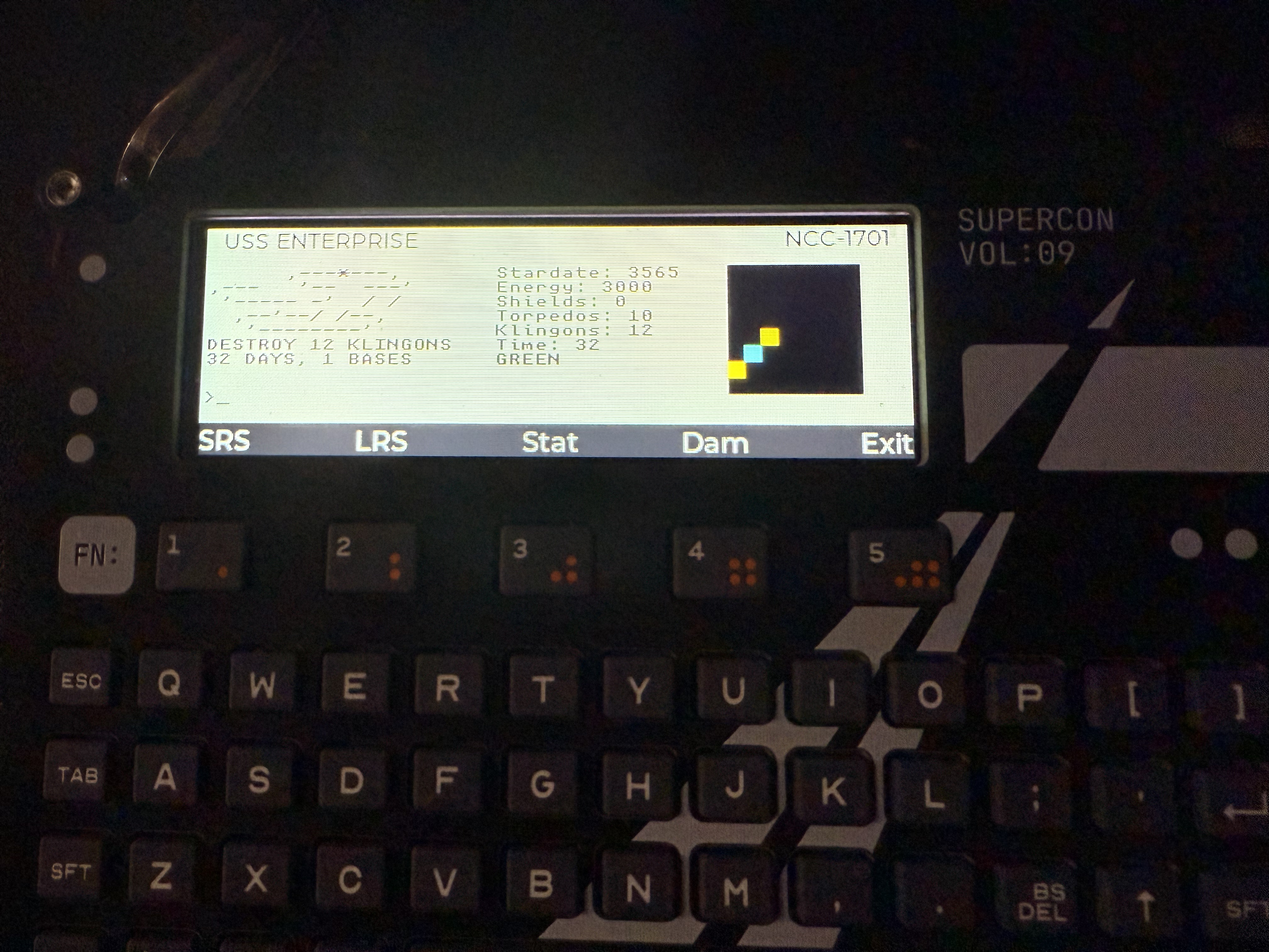
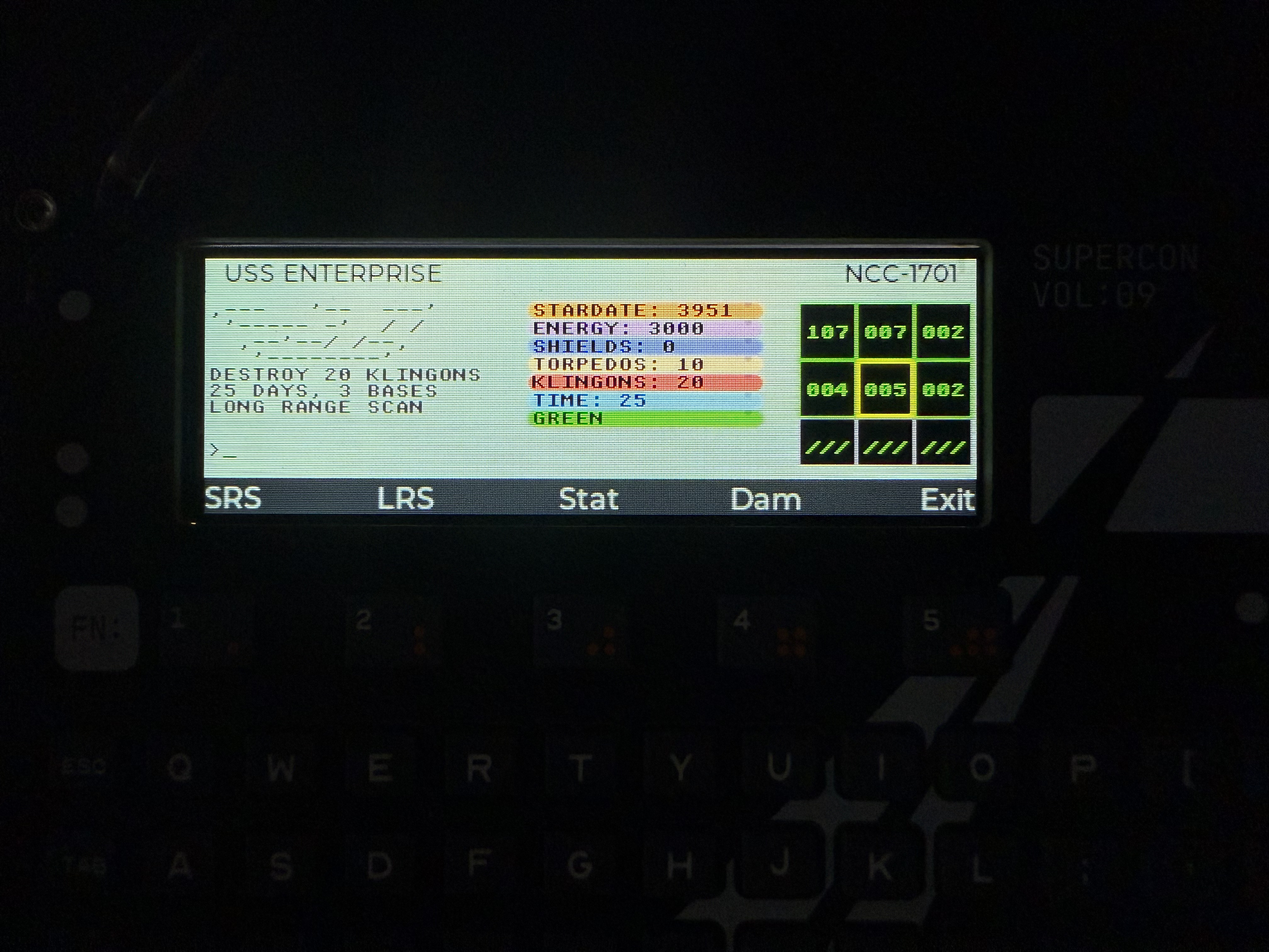
Show status in LCARS-like pills.

diff --git a/firmware/badge/apps/userA.py b/firmware/badge/apps/userA.py
@@ -514,7 +514,7 @@ class App(BaseApp):
         self.srs_grid = []  # 8x8 grid of small rectangles for SRS
         self.lrs_grid = []  # 3x3 grid for LRS display
         self.grid_mode = "SRS"  # "SRS" or "LRS"
-        self.status_label = None
+        self.status_pills = []  # LCARS-style status display pills
         self.log_label = None
         self.command_label = None
         
@@ -707,7 +707,7 @@ class App(BaseApp):
         
         # Show SRS grid - move to visible position
         cell_size = 10
-        start_x = 320
+        start_x = 330  # Shifted 10px right
         start_y = 2
         for idx, cell in enumerate(self.srs_grid):
             y = idx // 8
@@ -731,7 +731,7 @@ class App(BaseApp):
         
         # Show LRS grid - move to visible position
         lrs_cell_size = 32
-        start_x = 320
+        start_x = 330  # Shifted 10px right
         start_y = 2
         for idx, (container, label) in enumerate(self.lrs_grid):
             y = idx // 3
@@ -742,21 +742,46 @@ class App(BaseApp):
         self.log("LONG RANGE SCAN")
 
     def update_status_display(self):
-        """Update status display."""
-        if not self.status_label:
+        """Update LCARS-style status pills."""
+        if not self.status_pills:
             return
         
         g = self.game
-        # Full word labels on single lines
-        status = f"Stardate: {g.stardate:.0f}\n"
-        status += f"Energy: {g.energy}\n"
-        status += f"Shields: {g.shields}\n"
-        status += f"Torpedos: {g.torpedoes}\n"
-        status += f"Klingons: {g.klingons_total}\n"
-        status += f"Time: {g.get_time_left():.0f}\n"
-        status += f"{g.get_condition()}"
+        condition = g.get_condition()
         
-        self.status_label.set_text(status)
+        # Update each pill with its value (full labels)
+        status_values = [
+            f"STARDATE: {g.stardate:.0f}",
+            f"ENERGY: {g.energy}",
+            f"SHIELDS: {g.shields}",
+            f"TORPEDOS: {g.torpedoes}",
+            f"KLINGONS: {g.klingons_total}",
+            f"TIME: {g.get_time_left():.0f}",
+            f"{condition}"
+        ]
+        
+        # Update labels
+        for i, (pill, label) in enumerate(self.status_pills):
+            if i < len(status_values):
+                label.set_text(status_values[i])
+        
+        # Update condition pill color dynamically
+        if len(self.status_pills) >= 7:
+            condition_pill, condition_label = self.status_pills[6]
+            
+            # Set color based on condition
+            if condition == "GREEN":
+                color = 0x00FF00  # Bright green
+            elif condition == "YELLOW":
+                color = 0xFFFF00  # Bright yellow
+            elif condition == "RED":
+                color = 0xFF0000  # Bright red
+            elif condition == "DOCKED":
+                color = 0x00FFFF  # Cyan
+            else:
+                color = 0x808080  # Gray fallback
+            
+            condition_pill.set_style_bg_color(lvgl.color_hex(color), 0)
 
     def update_log_display(self):
         """Update message log."""
@@ -966,17 +991,53 @@ class App(BaseApp):
         self.command_label.set_text(">_")
         self.command_label.set_style_text_font(lvgl.font_unscii_8, 0)  # Fixed-width font
         
-        # MIDDLE: Vertical status display - no width constraint
-        self.status_label = lvgl.label(self.p.content)
-        self.status_label.set_pos(180, 2)
-        self.status_label.set_text("STATUS")
-        self.status_label.set_style_text_font(lvgl.font_unscii_8, 0)  # Fixed-width font
+        # MIDDLE: LCARS-style status pills (smaller for better fit)
+        self.status_pills = []
+        pill_x = 180
+        pill_y = 2
+        pill_width = 130
+        pill_height = 9  # Smaller height
+        pill_spacing = 1  # Tighter spacing
+        
+        # LCARS-inspired colors (condition pill will be dynamic)
+        lcars_colors = [
+            0xFF9966,  # Orange - Stardate
+            0xCC99CC,  # Lavender - Energy
+            0x9999FF,  # Light blue - Shields
+            0xFFCC99,  # Peach - Torpedoes
+            0xFF6666,  # Red - Klingons
+            0x99CCFF,  # Sky blue - Time
+            0x808080,  # Gray - Condition (will be updated dynamically)
+        ]
+        
+        status_labels = ["STARDATE", "ENERGY", "SHIELDS", "TORPEDOS", "KLINGONS", "TIME", "CONDITION"]
+        
+        for i, (label_text, color) in enumerate(zip(status_labels, lcars_colors)):
+            # Create rounded rectangle container (pill)
+            pill = lvgl.obj(self.p.content)
+            pill.set_size(pill_width, pill_height)
+            pill.set_pos(pill_x, pill_y + i * (pill_height + pill_spacing))
+            pill.add_style(styles.base_style, 0)
+            pill.set_style_radius(4, 0)  # Slightly smaller rounded corners
+            pill.set_style_bg_color(lvgl.color_hex(color), 0)
+            pill.set_style_bg_opa(255, 0)
+            pill.set_style_border_width(0, 0)
+            pill.set_style_pad_all(1, 0)
+            
+            # Label on top of pill (no font change - unscii_8 is already small)
+            label = lvgl.label(pill)
+            label.set_text(label_text)
+            label.set_style_text_color(lvgl.color_hex(0x000000), 0)  # Black text
+            label.set_style_text_font(lvgl.font_unscii_8, 0)
+            label.align(lvgl.ALIGN.LEFT_MID, 1, 0)
+            
+            self.status_pills.append((pill, label))
         
         # FAR RIGHT: Graphical SRS grid - pushed to right edge
         # 8x8 grid of 10x10 pixel squares = 80x80 total
         self.srs_grid = []
         cell_size = 10
-        start_x = 320  # Push to very right edge (display is 428px wide)
+        start_x = 330  # Shifted 10px right (display is 428px wide)
         start_y = 2
         
         for y in range(8):
@@ -1042,7 +1103,7 @@ class App(BaseApp):
         self.p = None
         self.srs_grid = []
         self.lrs_grid = []
-        self.status_label = None
+        self.status_pills = []
         self.log_label = None
         self.command_label = None
         super().switch_to_background()
